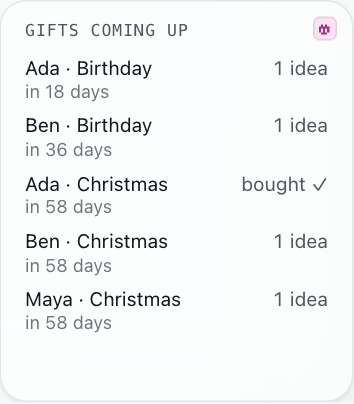
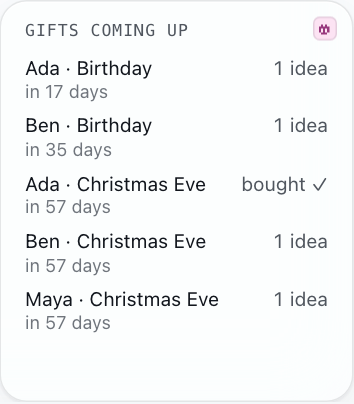
Official tools: Hewn's name in their messages, Christmas Eve, the runtime's locale
Idea Tracker and Kid Quotes say "Couldn't reach Hewn" where they still had
the old name, and Idea Tracker's demo set (?preview=demo) has a made-up
shipped idea in place of one written in the first person. Gift Ideas' Dec 24
occasion is Christmas Eve wherever it's named or shown (the stored kind stays
"christmas"); its Hub images are taken again. Plant Log sorts locations in
the runtime's locale, not Swedish.

diff --git a/seeds/idea-tracker/ui/fake.js b/seeds/idea-tracker/ui/fake.js
@@ -1,7 +1,7 @@
 // SPDX-License-Identifier: Apache-2.0
 // In-memory stand-in for the idea operations, used only when the page is opened with
 // ?preview=demo (sample ideas in every status, with and without optional fields, and max-length
-// text), ?preview=empty (no ideas) or ?preview=error (every call fails, as when Jig is unreachable). Mirrors the latest contract versions closely enough to
+// text), ?preview=empty (no ideas) or ?preview=error (every call fails, as when Hewn is unreachable). Mirrors the latest contract versions closely enough to
 // exercise every view; it never touches real data.
 import { LIVE, CLOSED, statusRank } from "./statuses.js";
 
@@ -18,7 +18,7 @@ function sampleIdeas(now) {
     { id: "d-raw", title: "Kids' weather wardrobe app", pitch: null, url: null, status: "raw", rating: null, tags: [], notes: [], age: 0.02 },
     { id: "d-long", title: longTitle, pitch: longPitch, url: "https://example.com/" + "x".repeat(480), status: "raw", rating: 2, tags: Array.from({ length: 20 }, (_, i) => `tag-${String(i + 1).padStart(2, "0")}-${"t".repeat(30)}`), notes: ["n".repeat(5000)], age: 12 },
     { id: "d-parked", title: "Newsletter about Nordic startups", pitch: "Weekly digest of funding rounds and launches.", url: null, status: "parked", rating: 2, tags: ["writing"], notes: ["On hold until autumn."], age: 40 },
-    { id: "d-shipped", title: "Word list with spaced repetition", pitch: "Learn the words I keep looking up.", url: "https://example.com/words", status: "shipped", rating: 4, tags: ["learning"], notes: ["Live and used daily."], age: 90 },
+    { id: "d-shipped", title: "Recipe scaler for home bakers", pitch: "Rescales a recipe to the tin or the number of guests you have.", url: "https://example.com/scaler", status: "shipped", rating: 4, tags: ["cooking"], notes: ["Launched; a few hundred weekly users."], age: 90 },
     { id: "d-killed", title: "Crypto tip jar", pitch: "Nobody wanted it.", url: null, status: "killed", rating: 1, tags: [], notes: [], age: 200 },
   ];
   return base.map((b) => ({
@@ -111,7 +111,7 @@ export function createFakeBackend(mode, now = Date.now()) {
 
   return async (operation, input = {}) => {
     await new Promise((r) => setTimeout(r, 150));
-    if (mode === "error") return { error: "UNAVAILABLE", message: "Couldn't reach Jig. Check the connection and try again." };
+    if (mode === "error") return { error: "UNAVAILABLE", message: "Couldn't reach Hewn. Check the connection and try again." };
     const fn = ops[operation];
     if (!fn) return { error: "UNKNOWN_OPERATION", message: `Unknown: ${operation}` };
     const out = fn(structuredClone(input));

diff --git a/seeds/gift-ideas/src/index.ts b/seeds/gift-ideas/src/index.ts
@@ -1,5 +1,5 @@
 // SPDX-License-Identifier: Apache-2.0
-// Gift Ideas: people, gift ideas per occasion, upcoming birthdays/Christmas and model suggestions.
+// Gift Ideas: people, gift ideas per occasion, upcoming birthdays/Christmas Eve and model suggestions.
 // See BUILDER.md for the implementation contract.
 
 type Db = {
@@ -41,7 +41,7 @@ export type Upcoming = {
   bought_count: number;
 };
 
-const CHRISTMAS = { month: 12, day: 24 };
+const CHRISTMAS_EVE = { month: 12, day: 24 };
 const TIME_ZONE: string | undefined = undefined; // the runtime's own zone: tools don't get the owner's time zone yet
 
 // ---------------------------------------------------------------- dates (pure)
@@ -168,7 +168,7 @@ function compareUpcoming(a: Upcoming, b: Upcoming): number {
   );
 }
 
-/** Every person's next birthday, Christmas and custom occasions (plus general custom occasions), soonest first. */
+/** Every person's next birthday, Christmas Eve and custom occasions (plus general custom occasions), soonest first. */
 export function buildUpcoming(people: Person[], gifts: Gift[], occasions: CustomOccasion[], today: string): Upcoming[] {
   const giftsBy = new Map<number, Gift[]>();
   for (const g of gifts) {
@@ -199,7 +199,7 @@ export function buildUpcoming(people: Person[], gifts: Gift[], occasions: Custom
         // a malformed stored birthday is skipped rather than breaking the list
       }
     }
-    push("christmas", "Christmas", p, nextYearly(CHRISTMAS.month, CHRISTMAS.day, today), null, null);
+    push("christmas", "Christmas Eve", p, nextYearly(CHRISTMAS_EVE.month, CHRISTMAS_EVE.day, today), null, null);
   }
   for (const o of occasions) {
     let date: string | null = null;

diff --git a/seeds/idea-tracker/ui/app.js b/seeds/idea-tracker/ui/app.js
@@ -26,9 +26,9 @@ async function call(operation, input = {}) {
       headers: { "content-type": "application/json", "x-hewn-ui": "1" },
       body: JSON.stringify({ operation, input, operationVersion: VERSIONS[operation] }),
     });
-    return await r.json().catch(() => ({ error: "BAD_RESPONSE", message: "Jig sent a reply the page couldn't read. Try again." }));
+    return await r.json().catch(() => ({ error: "BAD_RESPONSE", message: "Hewn sent a reply the page couldn't read. Try again." }));
   } catch {
-    return { error: "NETWORK", message: "Couldn't reach Jig. Check the connection and try again." };
+    return { error: "NETWORK", message: "Couldn't reach Hewn. Check the connection and try again." };
   }
 }
 

diff --git a/seeds/gift-ideas/ui/app.js b/seeds/gift-ideas/ui/app.js
@@ -354,7 +354,7 @@ async function renderPerson(id, keep = {}) {
   const giftRow = (g, buttons) => {
     const meta = [];
     if (g.price !== null) meta.push(numFmt.format(g.price));
-    if (g.status !== "idea" || g.occasion !== "other") meta.push(g.occasion === "birthday" ? "Birthday" : g.occasion === "christmas" ? "Christmas" : "Other");
+    if (g.status !== "idea" || g.occasion !== "other") meta.push(g.occasion === "birthday" ? "Birthday" : g.occasion === "christmas" ? "Christmas Eve" : "Other");
     if (g.year && g.status !== "given") meta.push(String(g.year));
     const link = g.link ? ` <a href="${esc(g.link)}" target="_blank" rel="noopener noreferrer">Link</a>` : "";
     return `<li>

diff --git a/seeds/plant-log/src/index.ts b/seeds/plant-log/src/index.ts
@@ -120,7 +120,7 @@ function compareText(a: string | null, b: string | null): number {
   if (a === b) return 0;
   if (a === null) return 1; // no location sorts last
   if (b === null) return -1;
-  return a.localeCompare(b, "sv", { sensitivity: "base" }) || (a < b ? -1 : a > b ? 1 : 0);
+  return a.localeCompare(b, undefined, { sensitivity: "base" }) || (a < b ? -1 : a > b ? 1 : 0);
 }
 
 /** Due order: most overdue first, then due today, then soonest; ties by location, then name. */

diff --git a/seeds/idea-tracker/src/index.ts b/seeds/idea-tracker/src/index.ts
@@ -50,7 +50,7 @@ const MAX_TAGS = 20;
 const MAX_TAG_LEN = 40;
 const MAX_URL_LEN = 500;
 
-// The jig runtime crashes on raw U+2028/U+2029 in serialized output, and
+// The Hewn runtime crashes on raw U+2028/U+2029 in serialized output, and
 // JSON.stringify leaves them unescaped. They can only occur inside JSON string
 // literals, where the \u escape decodes to the identical character.
 const LINE_SEPARATORS = new RegExp(`[${String.fromCharCode(0x2028, 0x2029)}]`, "g");

diff --git a/seeds/kid-quotes/ui/app.js b/seeds/kid-quotes/ui/app.js
@@ -8,7 +8,7 @@ const call = (operation, input = {}) =>
     body: JSON.stringify({ operation, input }),
   })
     .then((r) => r.json())
-    .catch(() => ({ error: "network", message: "Couldn't reach Jig. Check the connection and try again." }));
+    .catch(() => ({ error: "network", message: "Couldn't reach Hewn. Check the connection and try again." }));
 
 const $ = (id) => document.getElementById(id);
 const PAGE = 50;
